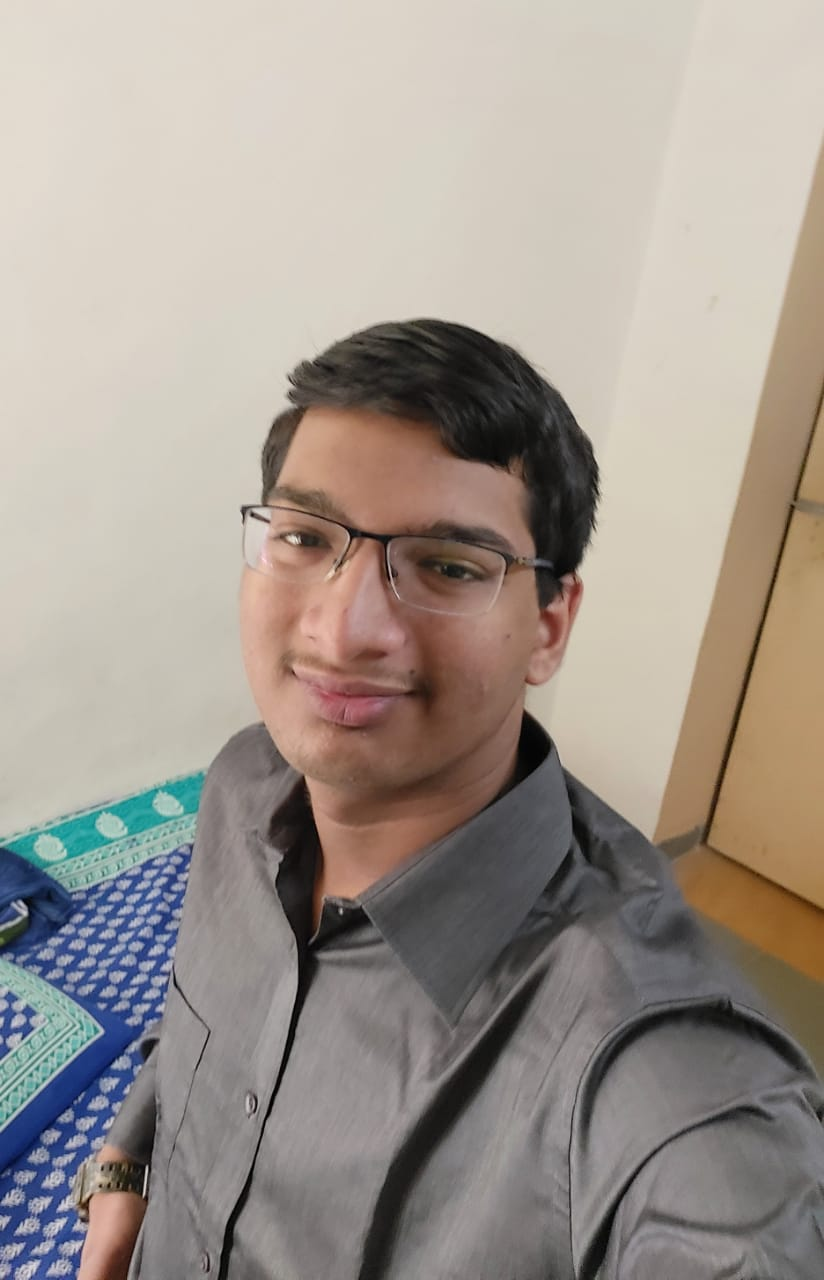
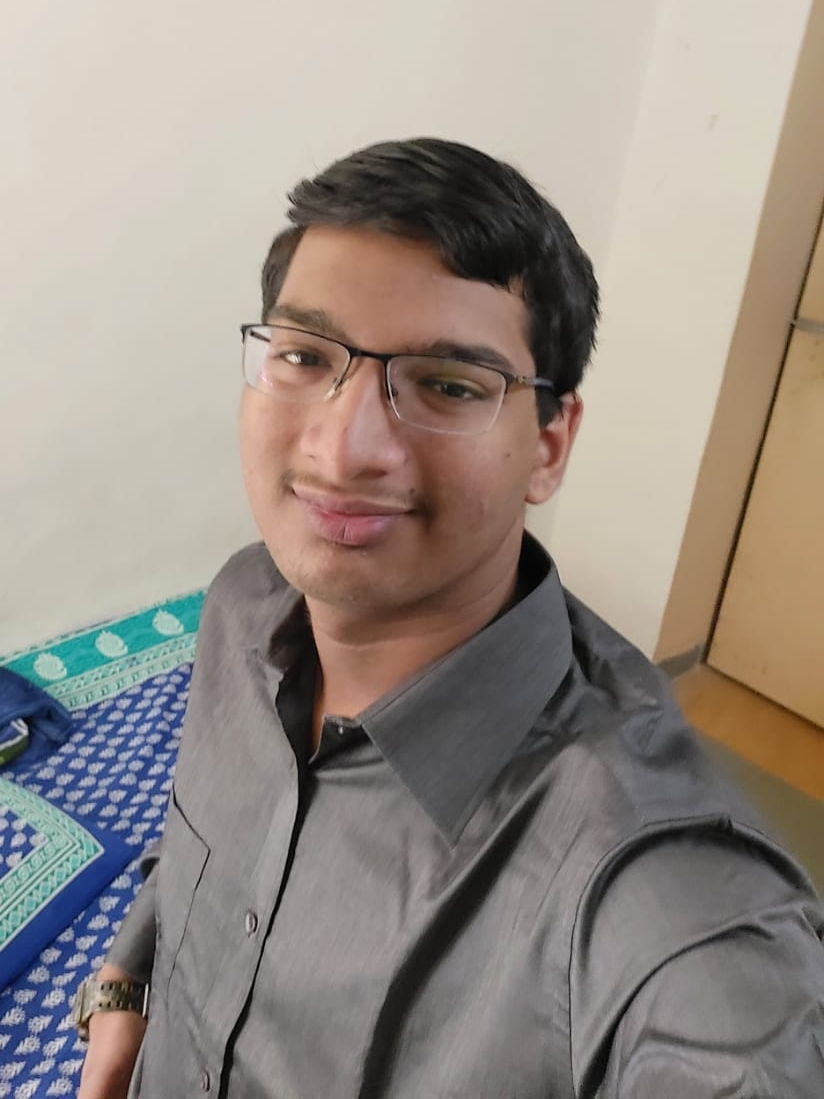
team member section in working

diff --git a/index.html b/index.html
@@ -23,7 +23,6 @@
     <div class="navbar">
         <nav class="navbar fixed-top navbar-expand-lg navbar-light bg-light">
             <div class="container-fluid" id="#">
-
                 <img src="elements/logo4.png" class="logo" />
                 <button class="navbar-toggler" type="button" data-bs-toggle="collapse" data-bs-target="#navbarNav" aria-controls="navbarNav" aria-expanded="false" aria-label="Toggle navigation">
           <span class="navbar-toggler-icon"></span>
@@ -240,75 +239,72 @@
         </section>
     </section>
     <!--creators section-->
+
     <section class="creators-section">
         <h3 class="title-text text-uppercase features-title">Our Team</h3>
         <div class="creators-container">
-            <div class="first-row">
-                <div class="box">
-                    <div class="imgBx">
-                        <img src="https://source.unsplash.com/300x300/?softwares,artificial,intelligence" />
-                    </div>
-                    <div class="content">
-                        <div>
-                            <h2>Image Title</h2>
-                            <p>
-                                Lorem ipsum dolor, sit amet consectetur adipisicing elit. Maiores exercitationem aspernatur ullam, et, aliquid tempore laborum, alias fuga inventore nam deserunt rerum eligendi modi dolor sed possimus ducimus suscipit nisi.
-                            </p>
-                        </div>
-                    </div>
+            <div class="box">
+                <div class="imgBx">
+                    <img src="elements/Team/vedant.jpg " />
                 </div>
-                <div class="box">
-                    <div class="imgBx">
-                        <img src="https://source.unsplash.com/300x300/?softwares,artificial,intelligence" />
-                    </div>
-                    <div class="content">
-                        <div>
-                            <h2>Image Title</h2>
-                            <p>
-                                Lorem ipsum dolor, sit amet consectetur adipisicing elit. Maiores exercitationem aspernatur ullam, et, aliquid tempore laborum, alias fuga inventore nam deserunt rerum eligendi modi dolor sed possimus ducimus suscipit nisi.
-                            </p>
-                        </div>
-                    </div>
-                </div>
-                <div class="box">
-                    <div class="imgBx">
-                        <img src="https://source.unsplash.com/300x300/?coding,programming,debugging,hacking" />
-                    </div>
-                    <div class="content">
-                        <div>
-                            <h2>Image Title</h2>
-                            <p>
-                                Lorem ipsum dolor, sit amet consectetur adipisicing elit. Maiores exercitationem aspernatur ullam, et, aliquid tempore laborum, alias fuga inventore nam deserunt rerum eligendi modi dolor sed possimus ducimus suscipit nisi.
-                            </p>
-                        </div>
+                <div class="content">
+                    <div>
+                        <h2>Image Title</h2>
+                        <p>
+                            Lorem ipsum dolor, sit amet consectetur adipisicing elit. Maiores exercitationem aspernatur ullam, et, aliquid tempore laborum, alias fuga inventore nam deserunt rerum eligendi modi dolor sed possimus ducimus suscipit nisi.
+                        </p>
                     </div>
                 </div>
             </div>
-            <div class="second-row">
-                <div class="box">
-                    <div class="imgBx">
-                        <img src="https://source.unsplash.com/300x300/?decentralization,cryptocurrency,blockchain" />
-                    </div>
-                    <div class="content">
-                        <div>
-                            <h2>Image Title</h2>
-                            <p>
-                                Lorem ipsum dolor, sit amet consectetur adipisicing elit. Maiores exercitationem aspernatur ullam, et, aliquid tempore laborum, alias fuga inventore nam deserunt rerum eligendi modi dolor sed possimus ducimus suscipit nisi.
-                            </p>
-                        </div>
+            <div class="box">
+                <div class="imgBx">
+                    <img src="elements/Team/parth.jpeg" />
+                </div>
+                <div class="content">
+                    <div>
+                        <h2>Image Title</h2>
+                        <p>
+                            Lorem ipsum dolor, sit amet consectetur adipisicing elit. Maiores exercitationem aspernatur ullam, et, aliquid tempore laborum, alias fuga inventore nam deserunt rerum eligendi modi dolor sed possimus ducimus suscipit nisi.
+                        </p>
                     </div>
                 </div>
-                <div class="box">
-                    <div class="imgBx">
-                        <img src="https://source.unsplash.com/300x300/?stockmarket,,mobiledata,telecoms" />
+            </div>
+            <div class="box">
+                <div class="imgBx">
+                    <img src="elements/Team/rishabh.jpg" />
+                </div>
+                <div class="content">
+                    <div>
+                        <h2>Image Title</h2>
+                        <p>
+                            Lorem ipsum dolor, sit amet consectetur adipisicing elit. Maiores exercitationem aspernatur ullam, et, aliquid tempore laborum, alias fuga inventore nam deserunt rerum eligendi modi dolor sed possimus ducimus suscipit nisi.
+                        </p>
                     </div>
-                    <div class="content">
-                        <div>
-                            <h2>Image Title</h2>
-                            <p>
-                                Lorem ipsum dolor, sit amet consectetur adipisicing elit. Maiores exercitationem aspernatur ullam, et, aliquid tempore laborum, alias fuga inventore nam deserunt rerum eligendi modi dolor sed possimus ducimus suscipit nisi.
-                            </p>
-                        </div>
+                </div>
+            </div>
+            <div class="box">
+                <div class="imgBx">
+                    <img src="elements/Team/meet.jpeg" />
+                </div>
+                <div class="content">
+                    <div>
+                        <h2>Image Title</h2>
+                        <p>
+                            Lorem ipsum dolor, sit amet consectetur adipisicing elit. Maiores exercitationem aspernatur ullam, et, aliquid tempore laborum, alias fuga inventore nam deserunt rerum eligendi modi dolor sed possimus ducimus suscipit nisi.
+                        </p>
+                    </div>
+                </div>
+            </div>
+            <div class="box">
+                <div class="imgBx">
+                    <img src="elements/Team/jaival.jpeg  " />
+                </div>
+                <div class="content">
+                    <div>
+                        <h2>Image Title</h2>
+                        <p>
+                            Lorem ipsum dolor, sit amet consectetur adipisicing elit. Maiores exercitationem aspernatur ullam, et, aliquid tempore laborum, alias fuga inventore nam deserunt rerum eligendi modi dolor sed possimus ducimus suscipit nisi.
+                        </p>
                     </div>
                 </div>
             </div>
@@ -368,7 +364,8 @@
               ">
                         <!-- Links -->
                         <h5 class="text font-weight-bold mb-4">
-                            Contact Us</h5>
+                            Contact Us
+                        </h5>
                         <p><i class="fas fa-home mr-3"></i> 1107, Ram Bhavan, BITS Pilani, India</p>
                         <p><i class="fas fa-envelope mr-3"></i> veeba.reviews@gmail.com</p>
                         <p><i class="fas fa-phone mr-3"></i> + 91 735-0532-221</p>

diff --git a/css/style.css b/css/style.css
@@ -228,37 +228,23 @@ body::-webkit-scrollbar {
     position: relative;
     width: 100%;
     display: flex;
-    flex-direction: column;
-}
-
-.first-row {
-    display: flex;
-    margin-top: 5%;
-}
-
-.second-row {
-    display: flex;
-    align-content: center;
-    margin-bottom: 5%;
-    margin-left: 17%;
-    margin-right: 17%;
+    flex-direction: row;
 }
 
 .creators-container .box {
     position: relative;
-    width: 250px;
-    height: 250px;
+    width: 225px;
+    height: 300px;
     overflow: hidden;
     transition: 0.5s;
     margin-left: auto;
     margin-right: auto;
-    border-radius: 140px;
     margin-bottom: 2%;
 }
 
 .creators-container .box:hover {
     z-index: 1;
-    transform: scale(1.25);
+    transform: scale(1.5);
     box-shadow: 0px 0px 50px rgb(70, 70, 255);
     border-radius: 10px;
 }
